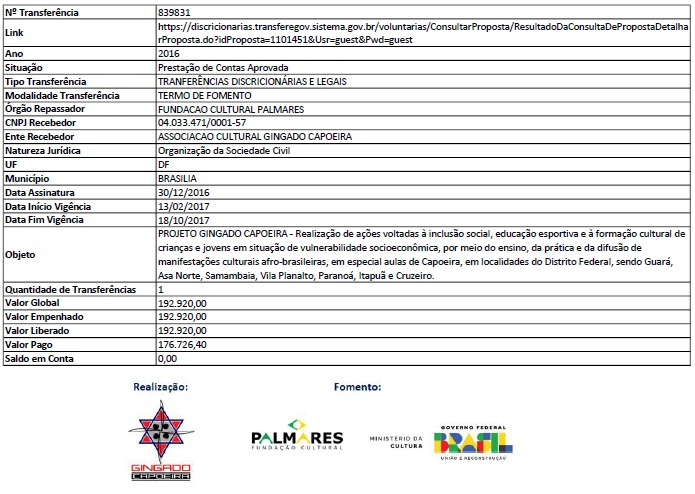
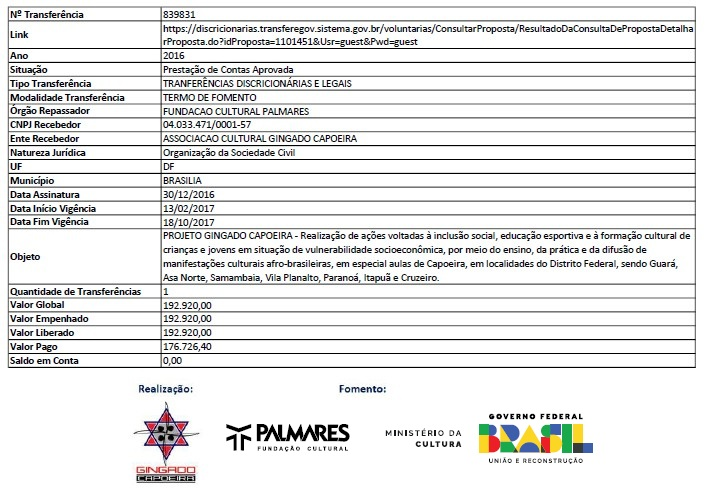
feat: new images

diff --git a/app/transparencia/page.tsx b/app/transparencia/page.tsx
@@ -14,9 +14,9 @@ export default function Page() {
         
             <section className="flex flex-col items-center justify-center mb-10">
 
-                <Image quality={100} className="mb-6 md:w-auto w-full" src="/logo-transparencia.jpeg" width={400} height={400} alt="Grupo logo" />
-                <Image quality={100} className="mb-6 w-full md:w-3/4" src="/192.jpeg" width={400} height={300} alt="Grupo logo" />
-                <Image quality={100} className="mb-6 w-full md:w-3/4" src="/300.jpeg" width={400} height={300} alt="Grupo logo" />
+                <Image unoptimized quality={100} className="mb-6 md:w-auto w-full" src="/logo-transparencia.jpeg" width={400} height={400} alt="Grupo logo" />
+                <Image unoptimized quality={100} className="mb-6 w-full md:w-3/4" src="/192.jpeg" width={400} height={300} alt="Grupo logo" />
+                <Image unoptimized quality={100} className="mb-6 w-full md:w-3/4" src="/300.jpeg" width={400} height={300} alt="Grupo logo" />
 
                 <Link className="text-xl mt-4 px-4 text-center text-blue-500" href="/gingado-capoeira.xlsx" download>Clicar e fazer o download da planilha</Link>
 
